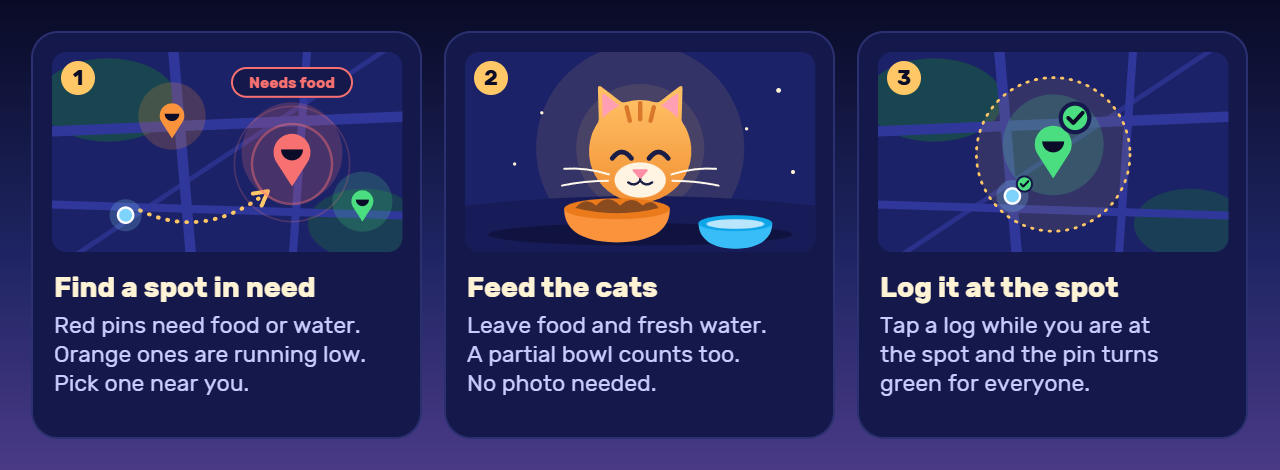
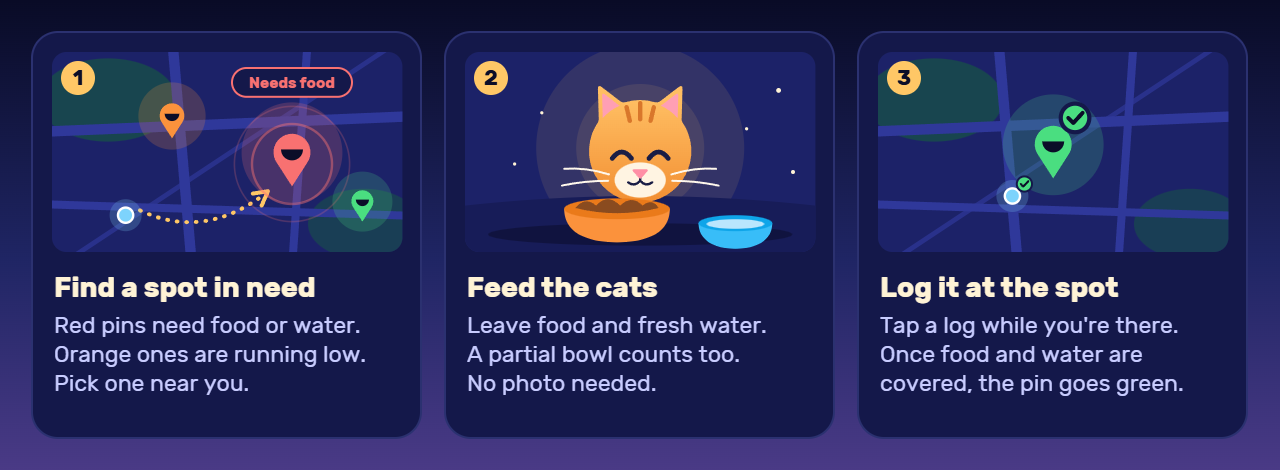
docs: address review findings on the cat art
- how-it-works step 3 no longer promises the pin turns green after one
  log: a spot takes the worse of its food and water colours, so it now
  says the pin goes green once food and water are covered.
- Drop the unlabelled dotted ring from step 3.
- Draw the mirrored inner ear as a plain path (xlink:href in
  how-it-works) so SVG 1.1 renderers show both ears.
- Share the map background and card clipPath in how-it-works.svg.
- Add scripts/inline-logo.mjs: logo.svg is the single source for the
  logo nested in banner.svg and social-preview.svg.
- Note in the SVG headers that the PNG text keeps the original Rubik
  weights, and match the how-it-works text weights to the banner.

diff --git a/README.md b/README.md
@@ -28,7 +28,7 @@ A group or a shared spreadsheet can list feeding spots. Neither can tell you whe
 showed up. Here, a red pin means a spot needs help, and a green pin means a volunteer really was
 there.
 
-![How Silent Whisker works: find a spot in need, feed the cats, then log it at the spot and the pin turns green for everyone](.github/assets/how-it-works.png)
+![How Silent Whisker works: find a spot in need, feed the cats, then log it at the spot, and once food and water are covered the pin goes green](.github/assets/how-it-works.png)
 
 ## What v1 does
 
